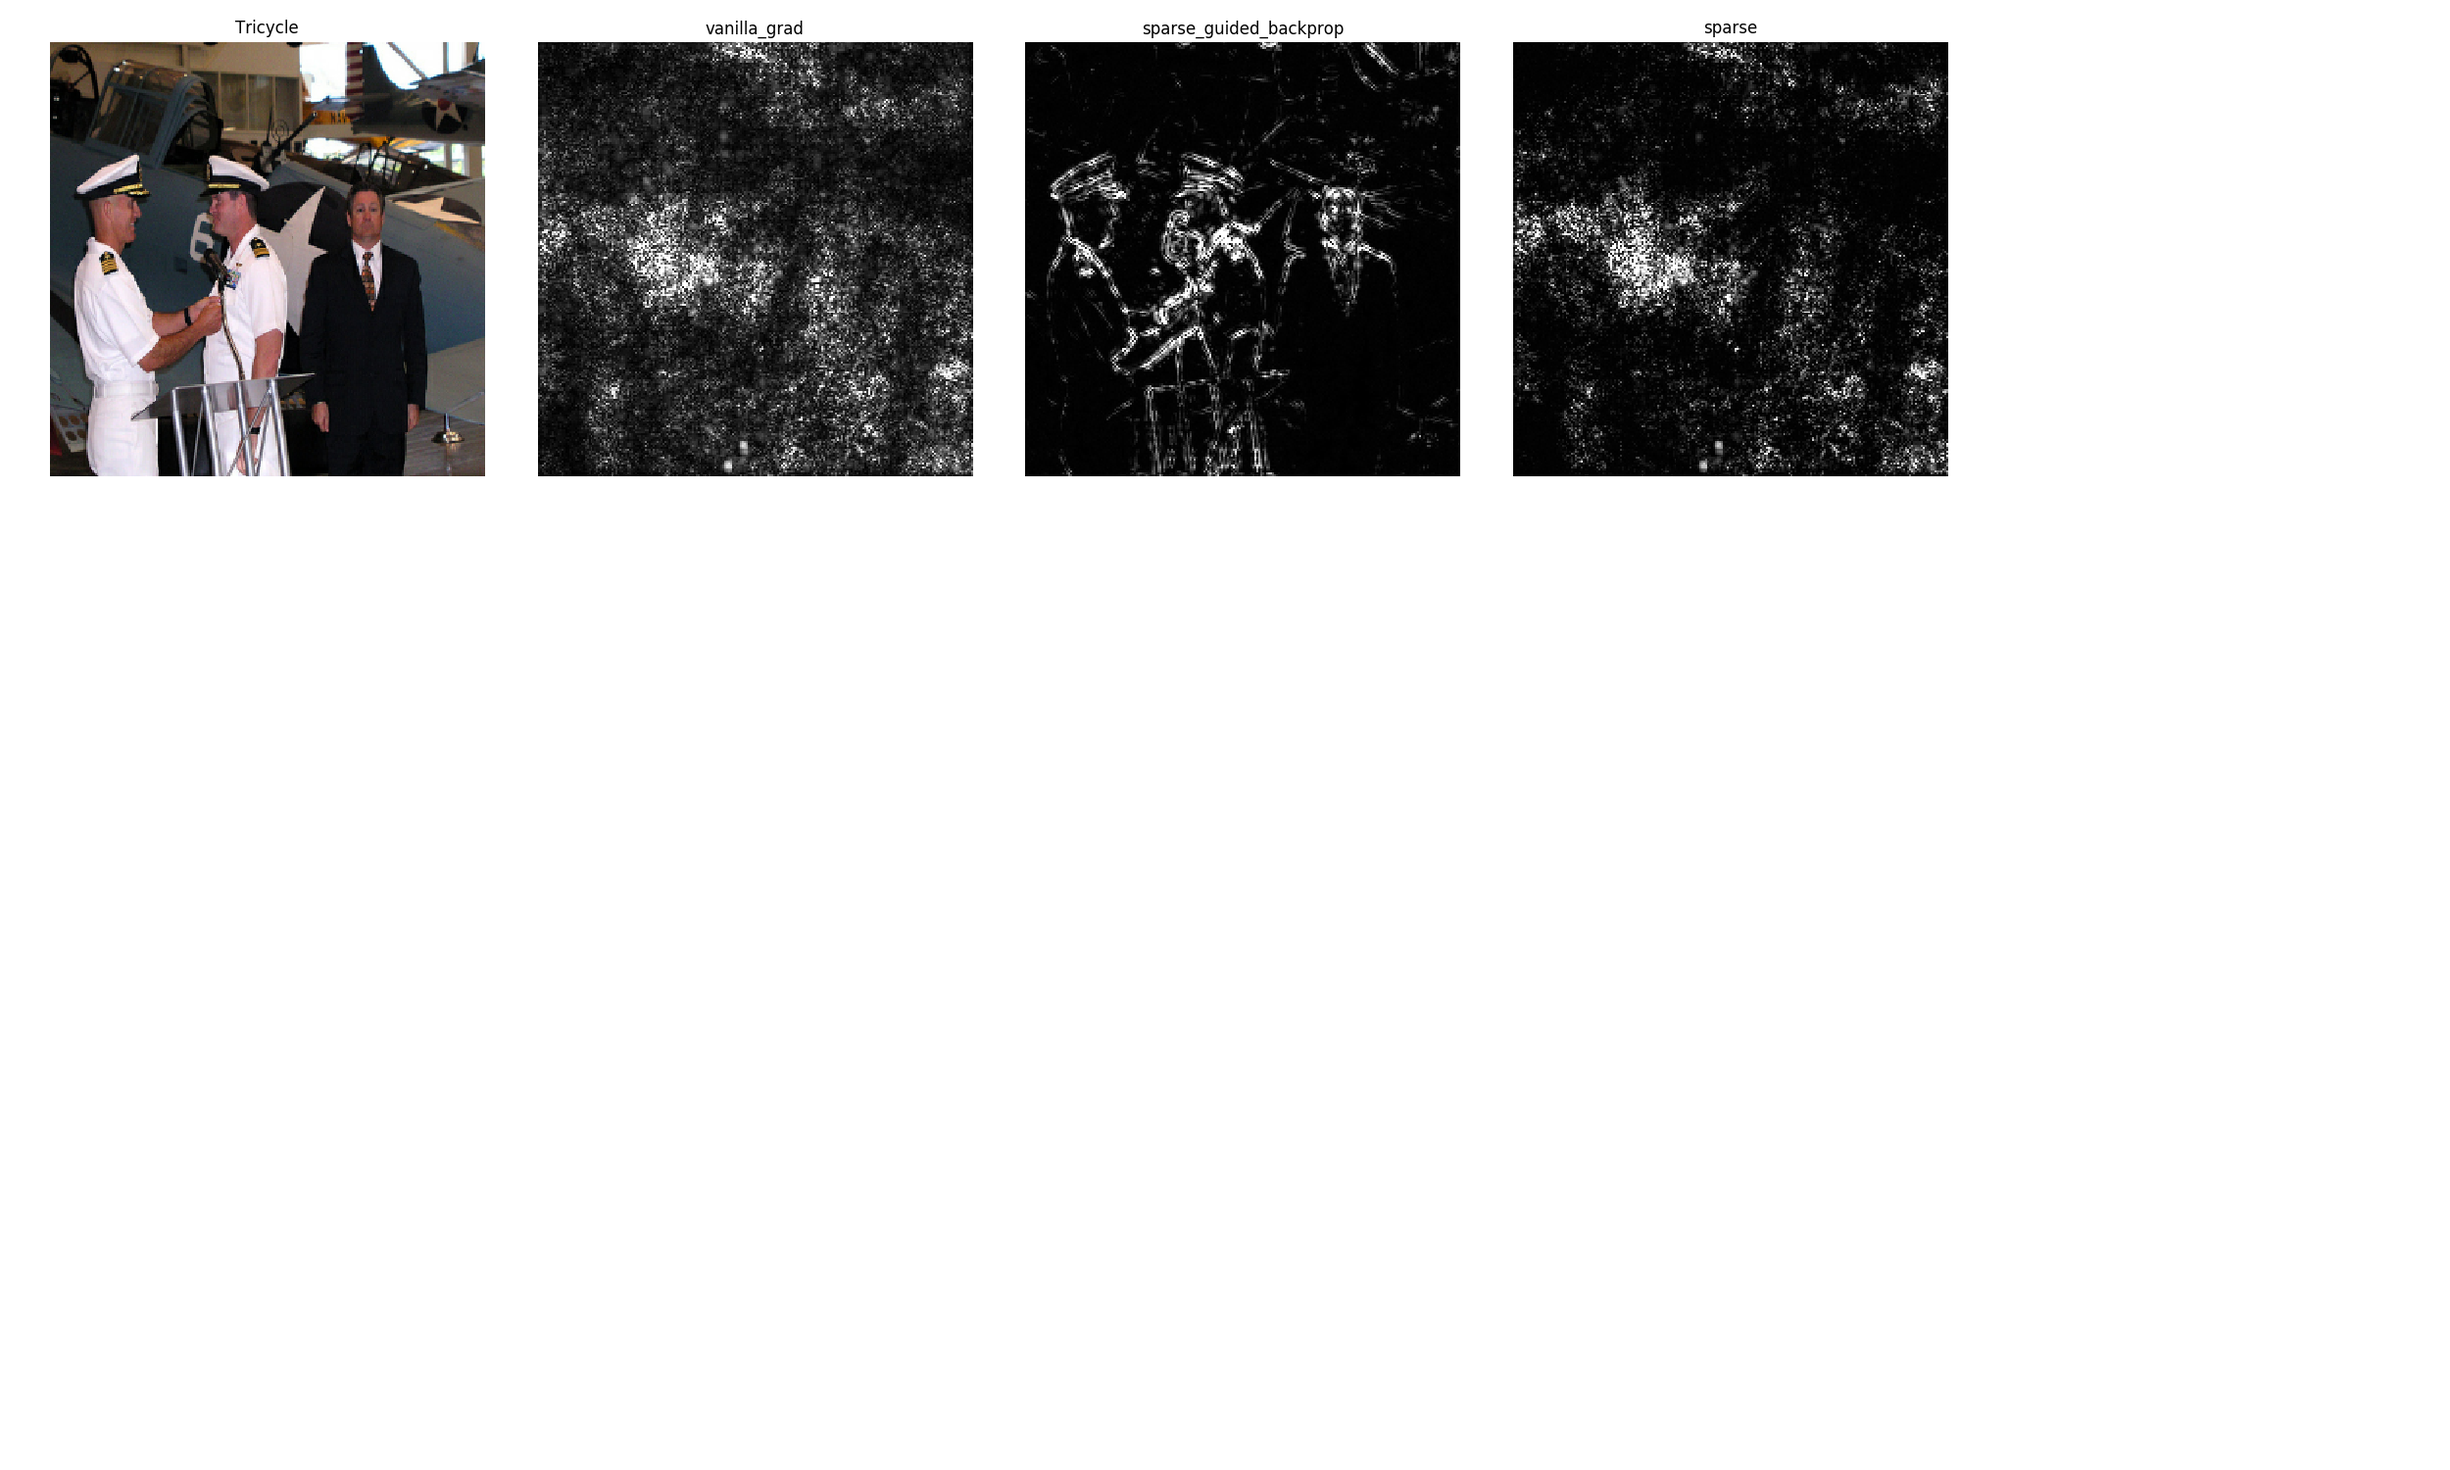
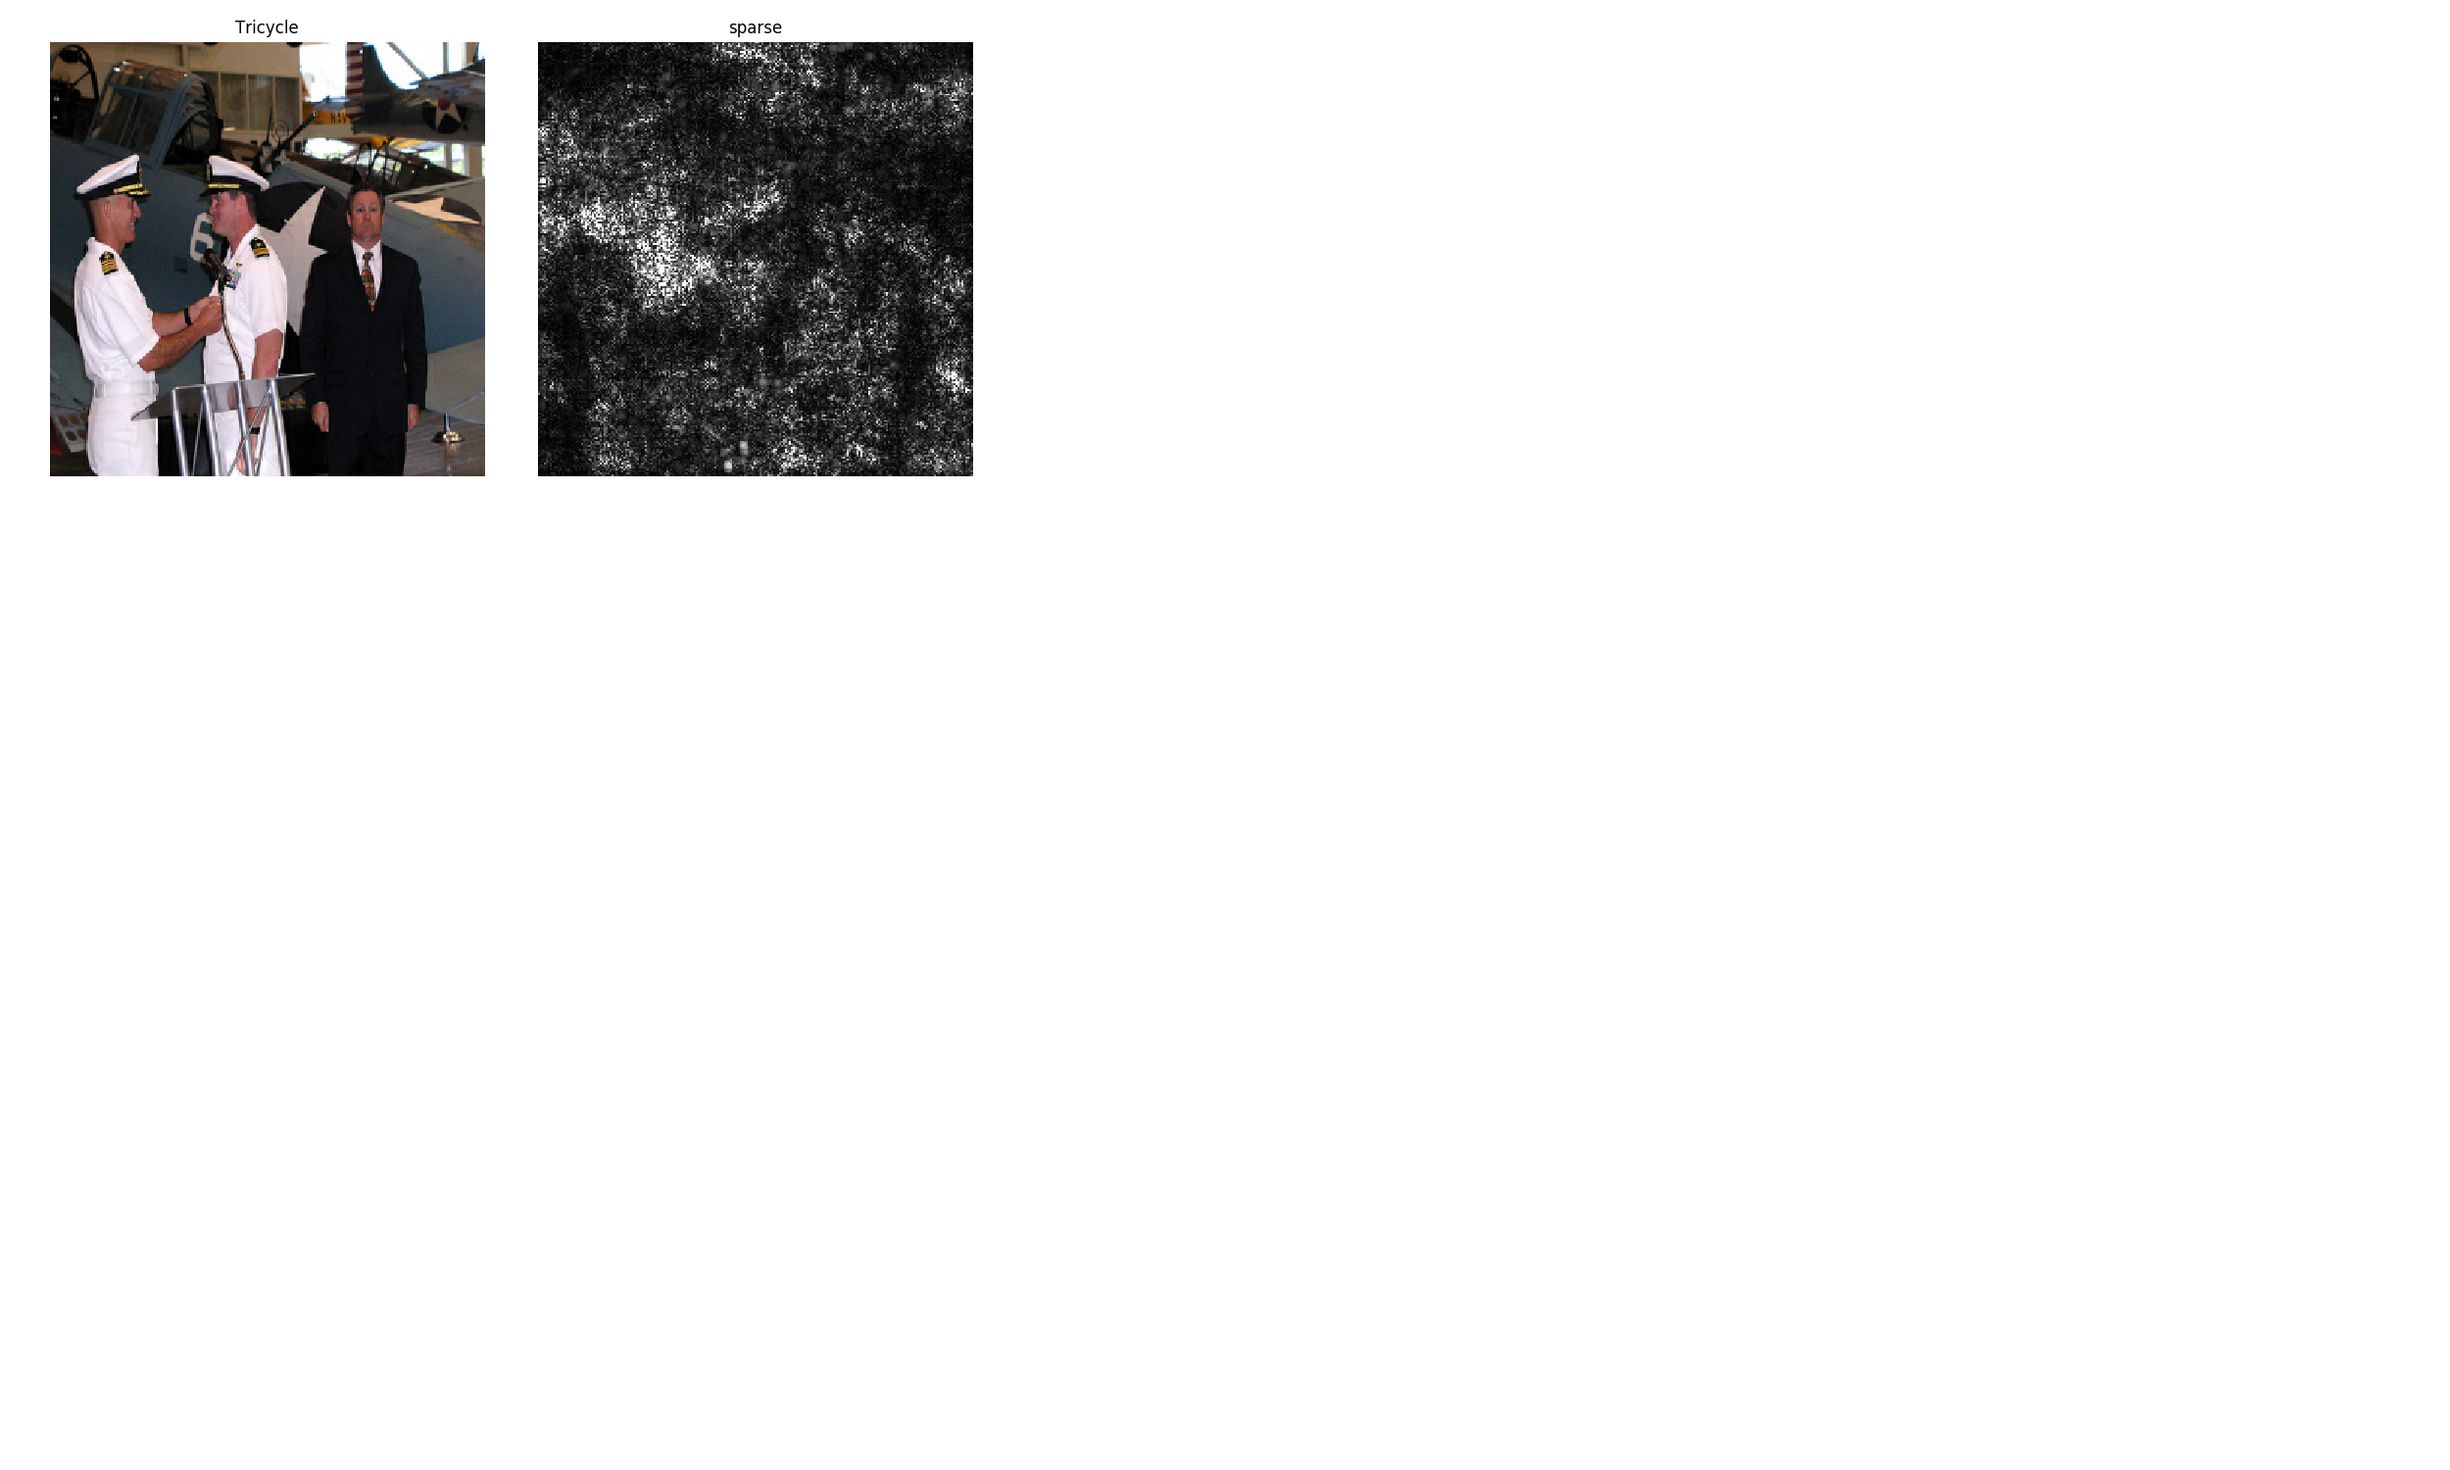
print loss history

Changed region(s): [[0.2184, 0.0, 0.8112, 0.3373]]

diff --git a/explainer/sparse.py b/explainer/sparse.py
@@ -1,7 +1,7 @@
 import torch
 import torch.nn as nn
 import torch.nn.functional as F
-
+from collections import defaultdict
 
 class SparseExplainer(object):
     def __init__(self, model, hessian_coefficient=1,
@@ -14,13 +14,14 @@ class SparseExplainer(object):
         self.n_iterations = n_iterations
         print(self.lambda_l1, self.lambda_l2)
 
-    def explain(self, inp, ind=None):
+    def explain(self, inp, ind=None, return_loss=False):
         batch_size, n_chs, img_width, img_height = inp.shape
         img_size = img_width * img_height
         delta = torch.zeros((batch_size, n_chs, img_size)).cuda()
         delta = nn.Parameter(delta, requires_grad=True)
         optimizer = torch.optim.SGD([delta], lr=0.1)
         # optimizer = torch.optim.Adam([delta], lr=0.0001)
+        loss_history = defaultdict(list)
         for i in range(self.n_iterations):
             output = self.model(inp)
             # if ind is None:
@@ -29,16 +30,26 @@ class SparseExplainer(object):
             out_loss = F.cross_entropy(output, ind)
             inp_grad, = torch.autograd.grad(out_loss, inp, create_graph=True)
             inp_grad = inp_grad.view((batch_size, n_chs, img_size))
-            # hessian_delta_vp, = torch.autograd.grad(
-            #         inp_grad.dot(delta).sum(), inp, create_graph=True)
-            # hessian_delta_vp = hessian_delta_vp.view(
-            #         (batch_size, n_chs, img_size))
+            hessian_delta_vp, = torch.autograd.grad(
+                    inp_grad.dot(delta).sum(), inp, create_graph=True)
+            hessian_delta_vp = hessian_delta_vp.view(
+                    (batch_size, n_chs, img_size))
             taylor_1 = inp_grad.dot(delta).sum()
-            #taylor_2 = 0.5 * delta.dot(hessian_delta_vp).sum()
+            taylor_2 = 0.5 * delta.dot(hessian_delta_vp).sum()
             l1_term = F.l1_loss(delta, torch.zeros_like(delta))
             l2_term = F.mse_loss(delta, torch.zeros_like(delta))
-            loss = - taylor_1 #- self.hessian_coefficient * taylor_2
+            loss = - taylor_1 - self.hessian_coefficient * taylor_2
             loss += self.lambda_l1 * l1_term + self.lambda_l2 * l2_term            
+            if i != 0:
+                loss_history['l1'].extend(self.lambda_l1 * l1_term)
+                loss_history['l2'].extend(self.lambda_l2 * l2_term)
+                loss_history['grad'].extend(- taylor_1)
+                loss_history['hessian'].extend(- self.hessian_coefficient * taylor_2)
+            else:
+                loss_history['l1'] = [self.lambda_l1 * l1_term]
+                loss_history['l2'] = [self.lambda_l2 * l2_term]
+                loss_history['grad'] = [- taylor_1]
+                loss_history['hessian'] = [- self.hessian_coefficient * taylor_2]
             # print(taylor_1.data.cpu().numpy(), taylor_2.data.cpu().numpy(),
             #       l1_term.data.cpu().numpy(), l2_term.data.cpu().numpy())
             # print(loss)
@@ -46,4 +57,6 @@ class SparseExplainer(object):
             loss.backward()
             optimizer.step()
         delta = delta.view((batch_size, n_chs, img_width, img_height))
+        if return_loss:
+            return delta.data.abs(), loss_history
         return delta.data.abs()    # abs as recommended by sohiel

diff --git a/soheil.py b/soheil.py
@@ -268,7 +268,9 @@ def baselines():
 
 def main():
     default_methods = [
-        ['resnet50', 'vanilla_grad', 'imshow', None],
+        #['resnet50', 'vanilla_grad', 'imshow', None],
+		#['resnet50', 'sparse_guided_backprop', 'imshow', None],
+		['resnet50', 'sparse', 'imshow', None]
         # ['resnet50', 'grad_x_input', 'imshow', None],
         # ['resnet50', 'saliency', 'imshow', None],
         # ['resnet50', 'sparse_integrate_grad', 'imshow', None],
@@ -327,7 +329,7 @@ def main():
 
     model_methods = default_methods  # + sparse_methods
 
-    image_path = 'images/tricycle.png'
+    image_path = 'images/8.png'
     raw_img = viz.pil_loader(image_path)
 
     all_saliency_maps = []
@@ -347,7 +349,8 @@ def main():
 
         # target = torch.LongTensor([image_class]).cuda()
         target = None
-        saliency = explainer.explain(inp, target)
+        saliency, loss_history = explainer.explain(inp, target, return_loss=True)
+        print(loss_history)
         saliency = VisualizeImageGrayscale(saliency)
         # saliency = utils.upsample(saliency, (raw_img.height, raw_img.width))
 
@@ -393,7 +396,7 @@ def main():
 
 
 if __name__ == '__main__':
-    # main()
-    # baselines()
+    main()
+    baselines()
     lambda_l1_l2()
-    # lambda_l1_n_iterations()
+    lambda_l1_n_iterations()
